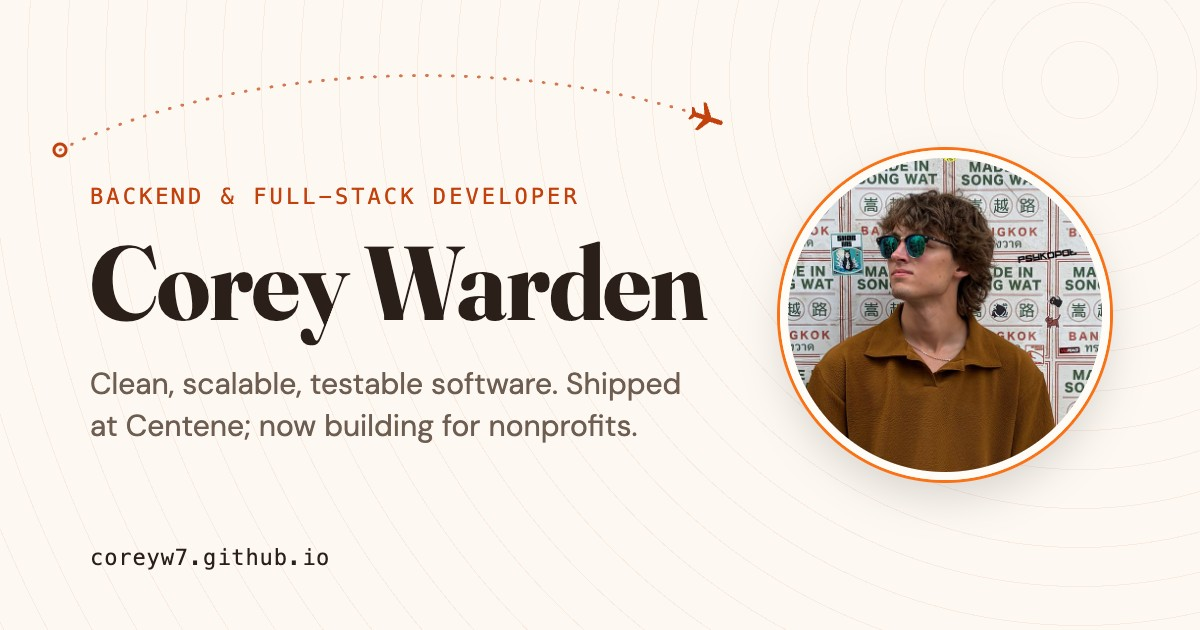
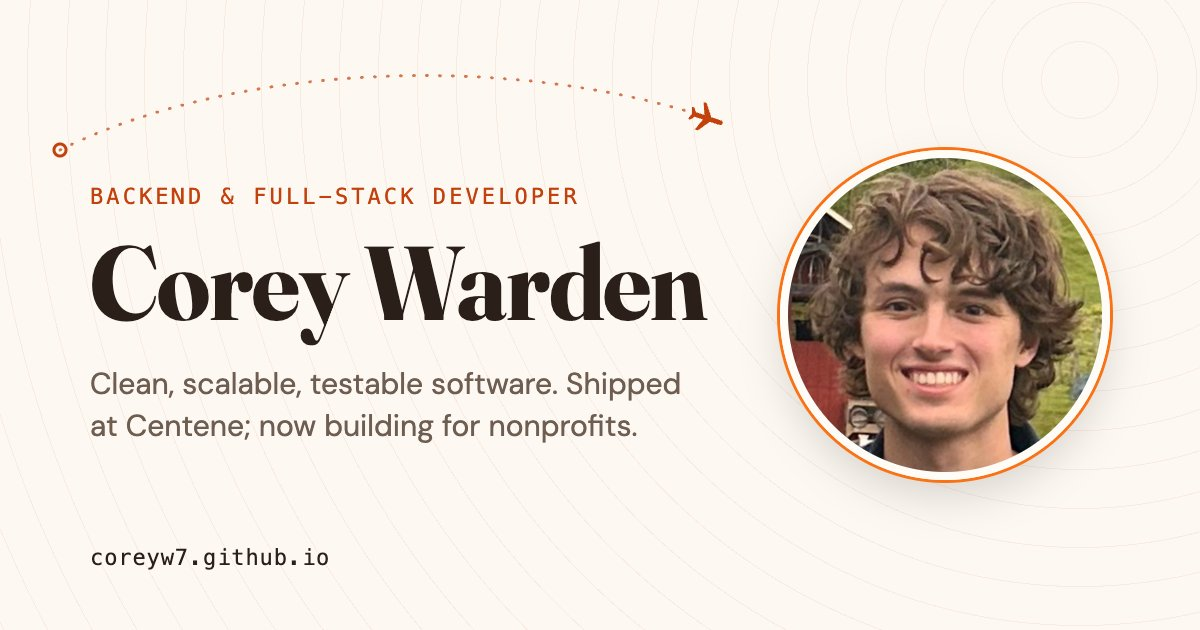
Swap in new headshot and update link-preview image

Changed region(s): [[0.6475, 0.2413, 0.925, 0.754]]

diff --git a/index.html b/index.html
@@ -234,7 +234,7 @@
             since, from my capstone's entire database to a donor platform for a nonprofit.
           </p>
         </div>
-        <img class="headshot" src="assets/headshot-circle.jpg" alt="Corey Warden in sunglasses in front of a wall of &quot;Made in Song Wat&quot; posters in Bangkok" width="260" height="260">
+        <img class="headshot" src="assets/headshot-circle.jpg" alt="Corey Warden smiling outdoors in front of a red barn" width="260" height="260">
       </div>
     </section>
 
